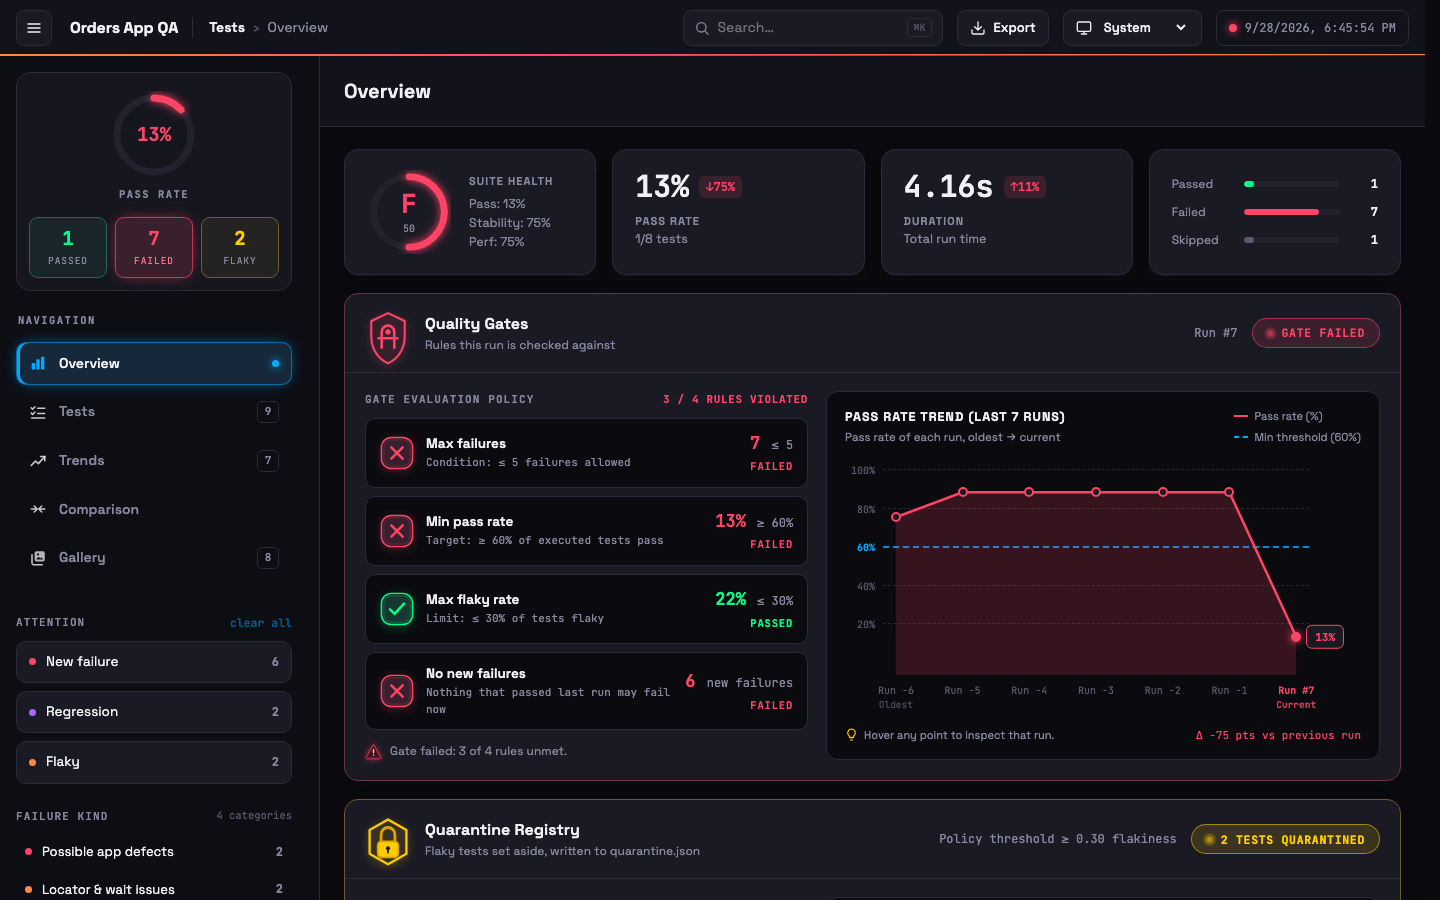
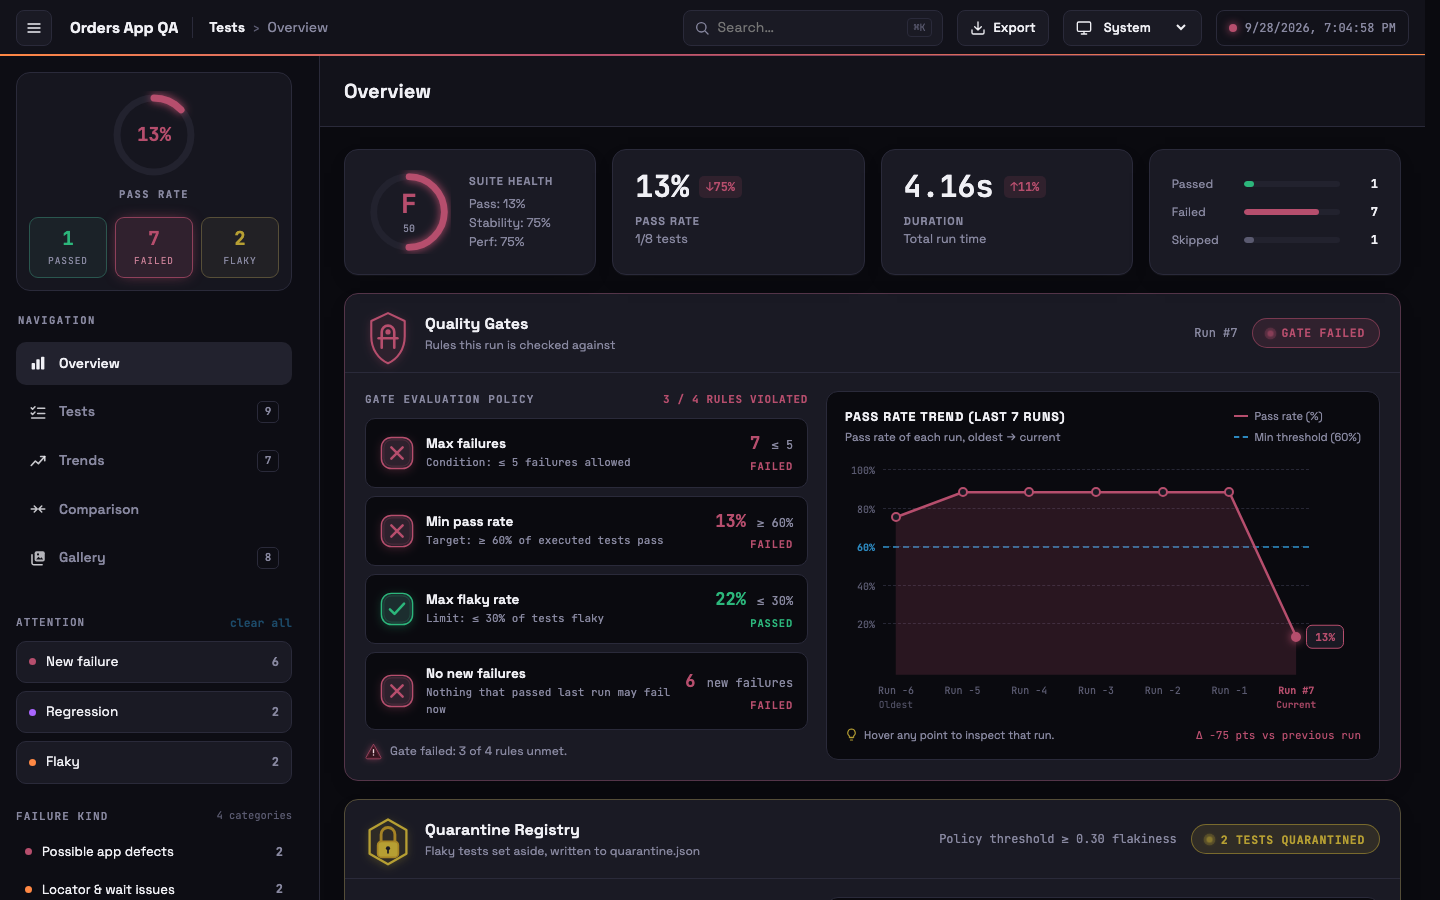
Use calmer status colours across the whole report
The softer red, yellow and green were only in the Gallery; the rest of
the report still used the neon shades, and blue glared too. Move the
override from the Gallery to body so every page, theme and the PDF use
each theme's deeper red, yellow, green and blue blended toward grey:
tiles, gate icons, charts, badges, filters and cards. Refresh the README
screenshots, which all show these colours.

diff --git a/test/fixtures/expected-report.html b/test/fixtures/expected-report.html
@@ -22,6 +22,11 @@
 :root[data-theme="rose"]{--bg:#1a0a14;--bg2:#24101c;--card:#2e1626;--hover:#3a1c30;--side:#140810;--border:#4a2840;--glow:#5f3452;--fg:#f5dce8;--fg2:#c990af;--mut:#8a5a74;--green:#6ee7b7;--green-d:#4fbc94;--red:#fb7185;--red-d:#d45468;--yellow:#fcd34d;--yellow-d:#ccaa3a;--blue:#93c5fd;--blue-d:#6da0d8;--purple:#e879f9;--orange:#fdba74;color-scheme:dark}
 *{box-sizing:border-box;margin:0;padding:0}
 html,body{background:var(--bg);color:var(--fg)}
+/* Calmer status colours across the whole report: the neon red, yellow, green and
+   blue glare at full strength, so every page uses each theme's deeper shade
+   blended toward grey. Set on body, so it applies in every theme and in print. */
+body{--red:color-mix(in srgb,var(--red-d) 68%,var(--fg2));--yellow:color-mix(in srgb,var(--yellow-d) 68%,var(--fg2));
+--green:color-mix(in srgb,var(--green-d) 68%,var(--fg2));--blue:color-mix(in srgb,var(--blue-d) 68%,var(--fg2))}
 /* Reserve scrollbar space so switching between a long and a short view never shifts the layout. */
 html{scrollbar-gutter:stable}
 body{font-family:var(--sans);font-size:14px;line-height:1.5;min-height:100vh}
@@ -321,9 +326,6 @@ pre .hl{color:var(--red);font-weight:600}pre .dim{color:var(--mut)}pre .own{colo
 .shot img{max-width:280px;max-height:520px;border-radius:10px;border:1px solid var(--border);display:block;cursor:zoom-in}
 .shot figcaption{font-family:var(--mono);font-size:11px;color:var(--mut);margin-top:8px}
 /* gallery */
-/* Calmer red, yellow and green for the Gallery: many cards side by side glare at full
-   strength, so it uses the theme's deeper shades blended toward grey. */
-#v-gallery{--red:color-mix(in srgb,var(--red-d) 68%,var(--fg2));--yellow:color-mix(in srgb,var(--yellow-d) 68%,var(--fg2));--green:color-mix(in srgb,var(--green-d) 68%,var(--fg2))}
 .ghead2{margin:0 -24px 18px;padding:20px 24px 16px;border-bottom:1px solid var(--border);background:var(--bg2)}
 .gtitlerow{display:flex;align-items:center;gap:10px;flex-wrap:wrap}
 .gtitlerow h2{font-size:22px;font-weight:600;margin-right:4px}

diff --git a/src/render.js b/src/render.js
@@ -1074,6 +1074,11 @@ function css() {
 ${Object.entries(THEMES).map(([k, v]) => `:root[data-theme="${k}"]{${v};color-scheme:dark}`).join('\n')}
 *{box-sizing:border-box;margin:0;padding:0}
 html,body{background:var(--bg);color:var(--fg)}
+/* Calmer status colours across the whole report: the neon red, yellow, green and
+   blue glare at full strength, so every page uses each theme's deeper shade
+   blended toward grey. Set on body, so it applies in every theme and in print. */
+body{--red:color-mix(in srgb,var(--red-d) 68%,var(--fg2));--yellow:color-mix(in srgb,var(--yellow-d) 68%,var(--fg2));
+--green:color-mix(in srgb,var(--green-d) 68%,var(--fg2));--blue:color-mix(in srgb,var(--blue-d) 68%,var(--fg2))}
 /* Reserve scrollbar space so switching between a long and a short view never shifts the layout. */
 html{scrollbar-gutter:stable}
 body{font-family:var(--sans);font-size:14px;line-height:1.5;min-height:100vh}
@@ -1373,9 +1378,6 @@ pre .hl{color:var(--red);font-weight:600}pre .dim{color:var(--mut)}pre .own{colo
 .shot img{max-width:280px;max-height:520px;border-radius:10px;border:1px solid var(--border);display:block;cursor:zoom-in}
 .shot figcaption{font-family:var(--mono);font-size:11px;color:var(--mut);margin-top:8px}
 /* gallery */
-/* Calmer red, yellow and green for the Gallery: many cards side by side glare at full
-   strength, so it uses the theme's deeper shades blended toward grey. */
-#v-gallery{--red:color-mix(in srgb,var(--red-d) 68%,var(--fg2));--yellow:color-mix(in srgb,var(--yellow-d) 68%,var(--fg2));--green:color-mix(in srgb,var(--green-d) 68%,var(--fg2))}
 .ghead2{margin:0 -24px 18px;padding:20px 24px 16px;border-bottom:1px solid var(--border);background:var(--bg2)}
 .gtitlerow{display:flex;align-items:center;gap:10px;flex-wrap:wrap}
 .gtitlerow h2{font-size:22px;font-weight:600;margin-right:4px}

diff --git a/CHANGELOG.md b/CHANGELOG.md
@@ -21,9 +21,9 @@ Will ship as **0.2.0** (already set in `package.json`): screen recordings are a 
   suite and spec file, since TC numbers repeat across specs, and its failure
   kind in the filter's colour. The sort offers By suite, and every sort but
   test order heads each group with its name and count.
-- The Gallery uses a softer red, yellow and green (the theme's deeper shades
-  blended toward grey) and fainter red card borders, since many cards side by side
-  glared.
+- Calmer colours across the whole report: red, yellow, green and blue are each
+  theme's deeper shade blended toward grey, so failures, gates, charts and
+  badges no longer glare. Failed Gallery cards also get fainter borders.
 - Sidebar refresh: the pass ring and the Passed / Failed / Flaky tiles share
   one card, with tiles tinted in their colour (Failed stands out when there
   are failures); new navigation icons, square count badges, and the
